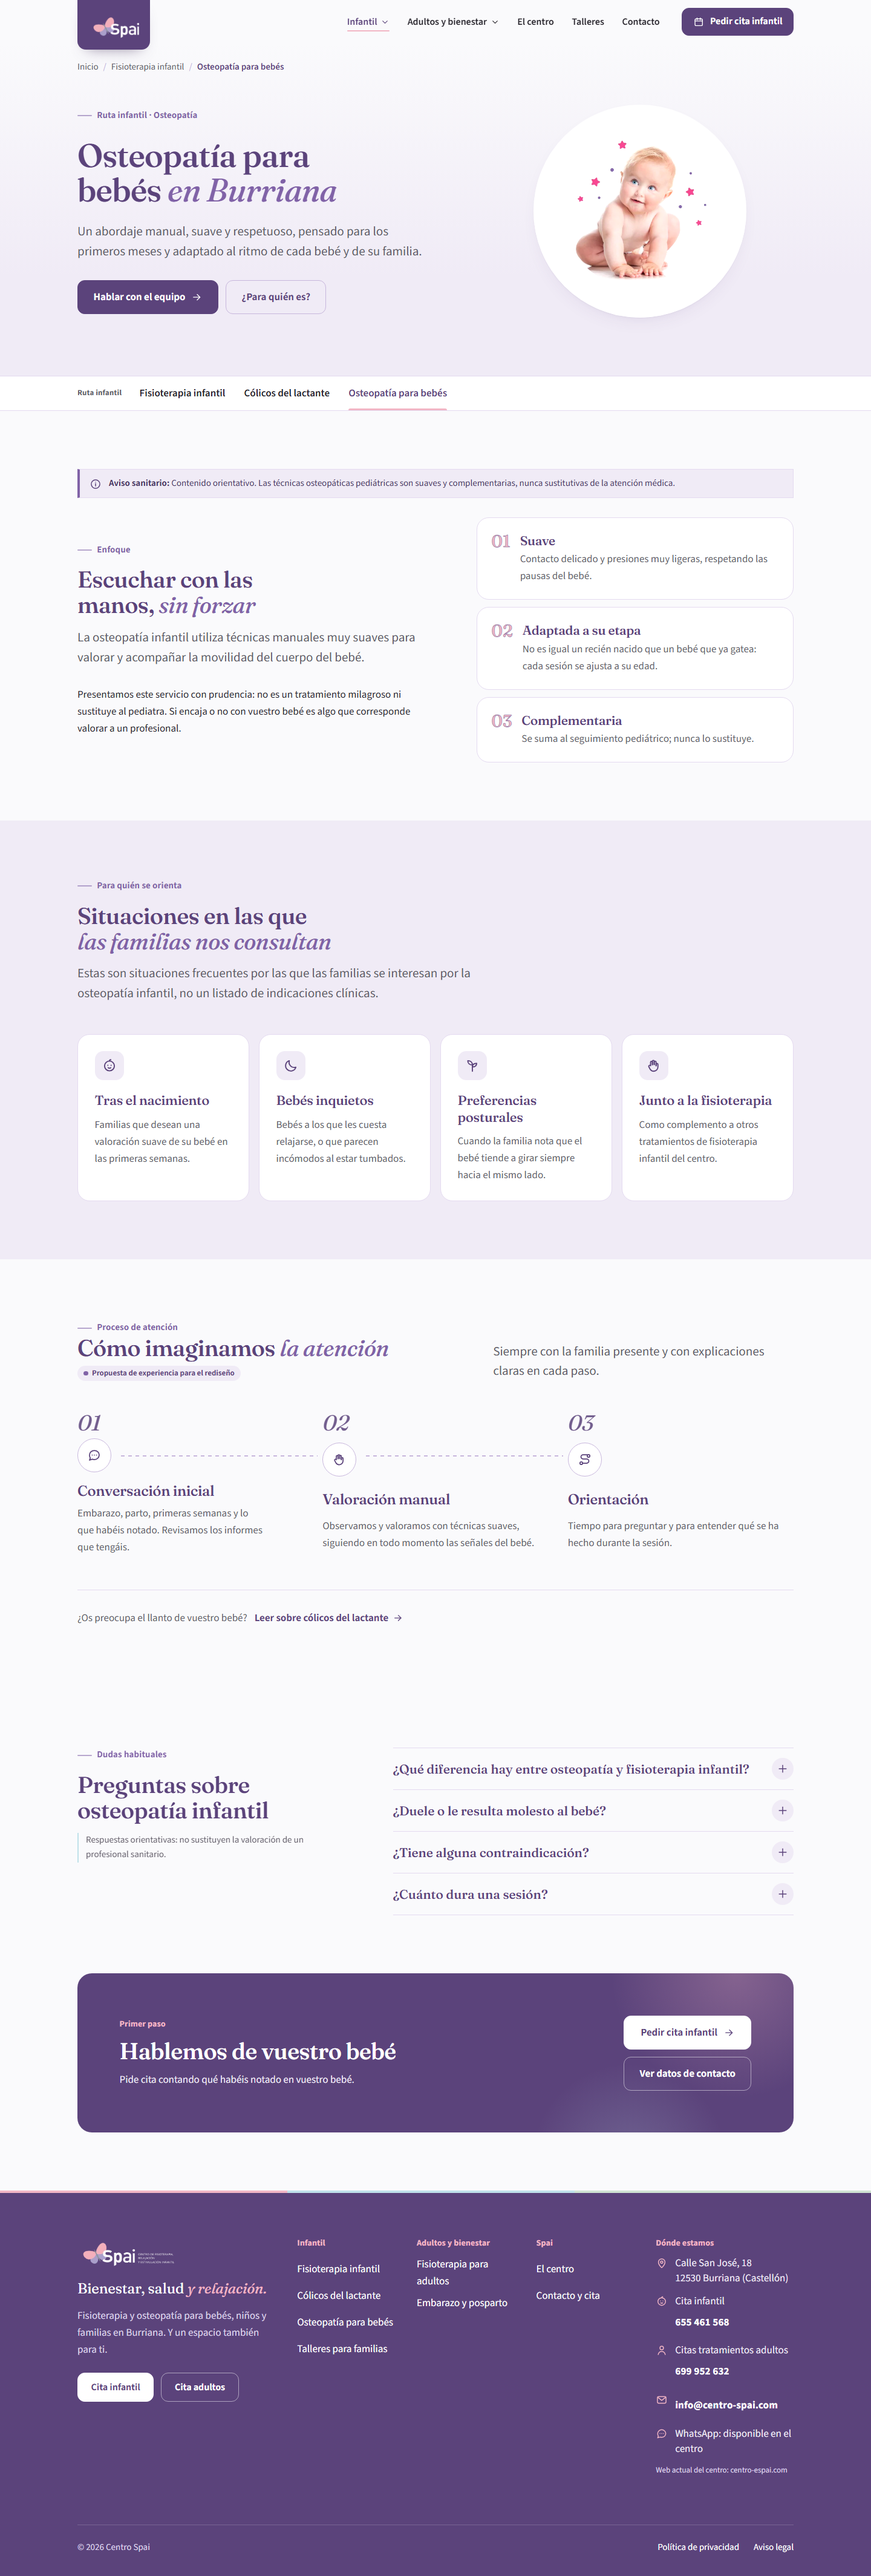
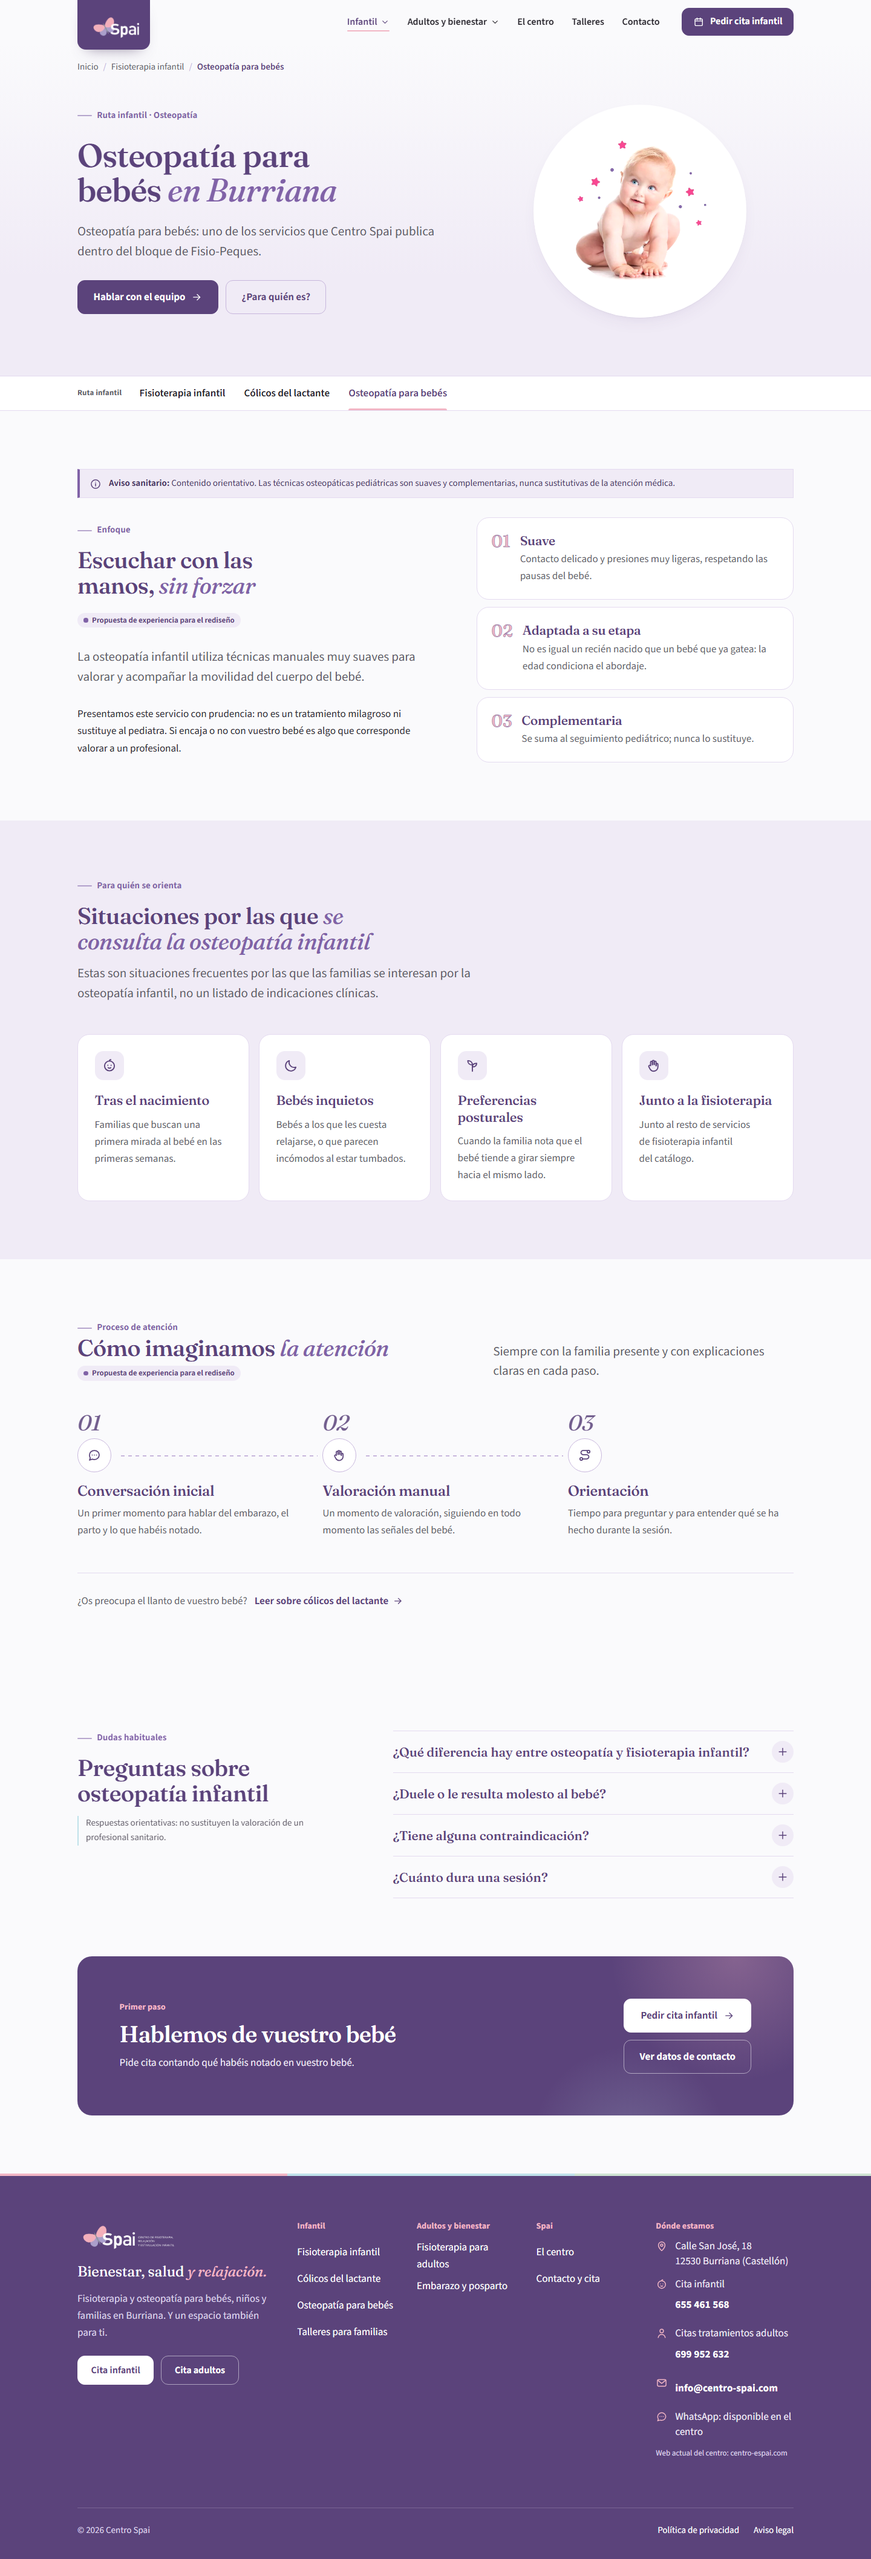
fix(copy): cierra afirmaciones no verificadas centro spai
Las rutas clinicas dejan de presentar como hechos actuales que Centro
Spai explique o acompane personalmente, realice valoraciones, aplique
tecnicas suaves o manuales adaptadas, ayude a recuperarse, trate al bebe
o determine que enfoque necesita cada persona. Cada frase se resolvio
reescribiendola como contenido publicado por el centro, reescribiendola
como propuesta dentro de un bloque etiquetado, o eliminandola.

- Colicos: hero sin promesa de explicacion ni acompanamiento; "Como os
  acompana el centro" pasa a "Como lo plantea esta propuesta";
  "Valoracion suave del bebe" pasa a "Observacion del bebe"; las FAQ
  devuelven la valoracion al profesional sanitario.
- Osteopatia: hero como servicio publicado, etiqueta de propuesta en el
  bloque de enfoque, "las familias nos consultan" fuera y la FAQ deja de
  prometer que se explique que enfoque encaja.
- Infantil: "Tratamos al bebe, acompanamos a la familia" pasa a "La
  infancia, el area principal del centro"; tarjetas por etapa como
  categorias; equipo atribuido a lo que publica la web del centro.
- Embarazo y posparto: fuera "te ayudamos a cuidar tu cuerpo" y
  "recuperarte a tu ritmo"; bloques como "Servicios para el embarazo" y
  "Servicios para el posparto".
- Inicio: tarjetas como categorias; fuera "Si ya venis con vuestros
  hijos" y "Sin compromiso".
- Adultos: eliminada "Cada una la presta un profesional con su propia
  titulacion"; se mantienen inventario historico y aviso sanitario.
[…]

diff --git a/ESTADO.md b/ESTADO.md
@@ -73,6 +73,19 @@ Regla aplicada: **todo lo que no esté sustentado por la web del centro se prese
 - **Catálogo de adultos**: «Radiofrecuencia corporal y facial» pasa a «Radiofrecuencia», por no constar ese detalle en la documentación del proyecto.
 - **Presentación**: la interfaz se ve terminada. Los pendientes viven en `GAPS.md`, `ESTADO.md` y el inventario, no repetidos por toda la web.
 
+## Cierre de afirmaciones no verificadas (tercera pasada)
+
+Criterio: en las rutas clínicas no queda ninguna frase que presente como hecho actual que Centro Spai explique o acompañe personalmente, realice valoraciones, aplique técnicas suaves o manuales adaptadas, ayude a recuperarse, trate al bebé o determine qué enfoque necesita cada persona. Cada una se resolvió por una de estas tres vías: reescritura como contenido publicado por el centro, reescritura como propuesta dentro de un bloque etiquetado, o eliminación.
+
+- **Cólicos**: el hero deja de prometer explicación y acompañamiento; «Cómo os acompaña el centro» pasa a «Cómo lo plantea esta propuesta»; «Valoración suave del bebé» pasa a «Observación del bebé»; las FAQ devuelven la valoración del caso al profesional sanitario.
+- **Osteopatía**: hero reescrito como servicio publicado; el bloque de enfoque lleva ya la etiqueta de propuesta; «las familias nos consultan» pasa a «se consulta la osteopatía infantil»; la FAQ deja de prometer que en la valoración se explique qué enfoque encaja.
+- **Infantil**: «Tratamos al bebé, acompañamos a la familia» pasa a «La infancia, el área principal del centro»; las tarjetas por etapa describen categorías del catálogo; el equipo se atribuye a lo que la web del centro publica, sin perfiles.
+- **Embarazo y posparto**: fuera «te ayudamos a cuidar tu cuerpo» y «recuperarte a tu ritmo»; los dos bloques pasan a «Servicios para el embarazo» y «Servicios para el posparto»; el enfoque lleva etiqueta de propuesta.
+- **Inicio**: tarjetas de necesidad convertidas en categorías, fuera «Si ya venís con vuestros hijos…» y «Sin compromiso».
+- **Adultos**: eliminada «Cada una la presta un profesional con su propia titulación»; el hero enumera las áreas de la ruta en lugar de prometer alivio. Se mantienen el inventario histórico y su aviso sanitario.
+- **Contacto y formulario**: la interfaz solo afirma lo verificable, «Formulario demostrativo: no envía ni almacena datos». Ningún texto dice que el centro responderá, gestionará citas ni tratará datos. Teléfonos, email, dirección y WhatsApp siguen visibles.
+- **Legal**: ambas páginas pasan a una presentación neutra, sin placeholders ni obligaciones, responsables, plazos o consentimientos inventados. Explican qué deberá incorporarse antes de una publicación real y mantienen el aviso sanitario general.
+
 ## Qué textos clínicos u operativos se suavizaron en la primera pasada
 
 - «Manos expertas» y «ritmo suave» en el hero infantil → descripción sin atribuir una práctica concreta.
@@ -93,8 +106,8 @@ Dominio y grafía definitivos, operatividad de los teléfonos y número de Whats
 ## Resultado de build y verificaciones
 
 - `npm run build` → 12 rutas estáticas generadas sin errores ni avisos.
-- `node scripts/verify-build.mjs` → **0 errores**. Comprueba 12 páginas, 1 H1 por página, cero `href="#"`, `noindex, follow`, cero referencias a Google Fonts, fuentes en disco, rutas de imágenes y WebP, anclas requeridas (incluidas `#herencia`, `#inventario` y `#otros-talleres`), presencia de los datos de contacto en todas las páginas, enlaces `tel:`/`mailto:`, ausencia de enlaces a tiendas sin verificar y una **lista de 27 frases prohibidas** que cubre las contradicciones con la web del centro, las afirmaciones de práctica o resultado y el andamiaje de proyecto («pendiente de validar», «Por validar», «confirmará el centro», «mockup», «maqueta»…).
-- `node scripts/qa-browser-tests.mjs` → **0 errores**. Suma a las pruebas previas: enlaces de contacto, formato online y CTA del Taller Moquitos, dos apps con recurso gráfico propio, catálogos de infantil y adultos, que las cinco rutas de servicio marquen su recorrido con «Propuesta de experiencia para el rediseño», y que ningún `<source>` genere caja en el layout.
+- `node scripts/verify-build.mjs` → **0 errores**. Comprueba 12 páginas, 1 H1 por página, cero `href="#"`, `noindex, follow`, cero referencias a Google Fonts, fuentes en disco, rutas de imágenes y WebP, anclas requeridas (incluidas `#herencia`, `#inventario` y `#otros-talleres`), presencia de los datos de contacto en todas las páginas, enlaces `tel:`/`mailto:`, ausencia de enlaces a tiendas sin verificar y una **lista de 47 frases prohibidas** que cubre las contradicciones con la web del centro, las afirmaciones de práctica, proceso o resultado («os explicamos», «te ayudamos», «valoramos al bebé», «técnicas manuales suaves», «a tu ritmo», «Sin compromiso»…) y el andamiaje de proyecto («pendiente de validar», «Por validar», «confirmará el centro», «mockup», «maqueta»). Comprueba además que las páginas legales no conserven marcadores de plantilla.
+- `node scripts/qa-browser-tests.mjs` → **0 errores**. Suma a las pruebas previas: enlaces de contacto, formato online y CTA del Taller Moquitos, dos apps con recurso gráfico propio, catálogos de infantil y adultos, que las cinco rutas de servicio marquen su recorrido con «Propuesta de experiencia para el rediseño», que el formulario se anuncie como demostrativo y sin almacenamiento, que las páginas legales estén libres de marcadores y adviertan de lo que falta, y que ningún `<source>` genere caja en el layout.
 - QA visual con Playwright en 390 y 1440: sin desbordamiento horizontal, sin errores de consola y sin respuestas 4xx.
 
 ## Últimos cambios
@@ -102,6 +115,7 @@ Dominio y grafía definitivos, operatividad de los teléfonos y número de Whats
 1. Corrección de fidelidad de herencia: recuperación de contacto, taller, apps y catálogos infantil y adulto.
 2. Dos correcciones técnicas de calado: `BUG-17` (el `<source>` de `<Picture>` se convertía en item de grid/flex) y `BUG-18` (las reglas CSS con ámbito `.x img` dejaron de aplicarse tras migrar a `<Picture>`).
 3. Ajuste de fidelidad de contenido (`BUG-19`): reescritura de los reclamos no sustentados y retirada del andamiaje de validación de la interfaz.
+4. Cierre de afirmaciones no verificadas (`BUG-20`): rutas clínicas sin afirmaciones de práctica, formulario y páginas legales reducidos a lo verificable.
 
 Ver `BUGS.md` y `git log`.
 

diff --git a/GAPS.md b/GAPS.md
@@ -4,6 +4,8 @@ Este documento recoge el estado de los puntos de información, decisiones de neg
 
 > **Criterio aplicado desde el 22/09/2026 (corrección de fidelidad de herencia).** Lo que la web del centro publica se hereda y se muestra; la falta de confirmación reciente deja de ser motivo para ocultarlo. Los gaps de contacto pasan de «dato oculto» a «dato mostrado, operatividad por confirmar». Solo se mantiene fuera lo que la fuente no publica (horario, número de WhatsApp) o lo que no puede afirmarse sin validación clínica. Trazabilidad en `design/inventario-herencia-sitio-original.md`.
 >
+> **Cierre del 22/09/2026 (afirmaciones no verificadas).** Las rutas clínicas ya no presentan como hecho actual que el centro explique, acompañe, valore, trate o elija enfoque; el formulario solo afirma que es demostrativo y no almacena datos; y las páginas legales son una presentación neutra, sin placeholders ni obligaciones inventadas. Lo que el cliente aporte para cerrar **GAP-06**, **GAP-08** y **GAP-13** es lo que permitirá convertir esos bloques en afirmaciones reales.
+>
 > **Ajuste del 22/09/2026 (fidelidad de contenido).** Los pendientes dejan de mostrarse en la interfaz: nada de sellos «Por validar», «pendiente de confirmar» ni referencias a que esto sea una maqueta por validar. En pantalla solo quedan los avisos sanitarios imprescindibles, la aclaración de que formularios y botones son demostrativos y la etiqueta discreta «Propuesta de experiencia para el rediseño» en los recorridos de atención. **Este documento es ahora el único registro de lo que falta**, junto a `ESTADO.md` y el inventario.
 
 ---
@@ -24,7 +26,7 @@ Este documento recoge el estado de los puntos de información, decisiones de neg
 | **GAP-10** | **Vigencia de las técnicas de adultos y responsable de cada una** | `/fisioterapia-adultos-burriana/#inventario`, `/embarazo-posparto/` | Confirmar cuáles del inventario heredado siguen activas (punción seca, kinesiotaping, electroterapia, Indiba y radiofrecuencia, MTC y acupuntura, hipopresivos, suelo pélvico, fisio-estética…) y quién las presta, con titulación. | 🟡 **Inventario heredado visible** *(se muestra el catálogo completo de la web anterior con aviso de que su vigencia la confirma el centro y no es un compromiso de tratamiento)* |
 | **GAP-11** | **Taller Moquitos: calendario, aforo, precio e inscripción real** | `/talleres/#taller-moquitos` | Fechas de próximas convocatorias, aforo, precio por familia y sistema de inscripción al que debe apuntar la CTA. | 🟡 **Taller y formato online heredados** *(se muestra «Taller Moquitos · Online» y la CTA «Apúntate al taller», que abre el formulario demostrativo; ya no se niega la inscripción online)* |
 | **GAP-12** | **Fichas de las apps en las tiendas** | `/talleres/#apps` | Enlaces definitivos de *No más Cólicos* y *Anticólicos* en App Store y Google Play, para activar los botones «Descargar app». | 🟡 **Apps heredadas y presentadas** *(ambas con icono propio y CTA visual; no se enlaza a ninguna tienda sin verificar ni se afirma que no estén disponibles)* |
-| **GAP-13** | **Datos fiscales para Aviso Legal y RGPD** | `/aviso-legal/`, `/politica-de-privacidad/` | Razón social o nombre del autónomo titular, CIF/NIF, domicilio social, datos de inscripción registral sanitaria y designación de responsable/DPD. | ❌ Pendiente de cliente *(plantillas con placeholders y directiva noindex)* |
+| **GAP-13** | **Datos fiscales y textos legales definitivos** | `/aviso-legal/`, `/politica-de-privacidad/` | Razón social o nombre del autónomo titular, CIF/NIF, domicilio social, datos de inscripción registral sanitaria y designación de responsable/DPD, más la redacción legal completa. | ❌ Pendiente de cliente *(ambas páginas son ahora una presentación neutra: sin placeholders ni obligaciones inventadas, y con directiva noindex)* |
 | **GAP-14** | **Sesión fotográfica real de instalaciones** | En todo el sitio | Fotografías actualizadas de la fachada a pie de calle, recepción, sala de fisioterapia pediátrica, cabinas de adultos y camillas. | ❌ Pendiente de cliente *(utilizando imágenes históricas aprobadas)* |
 | **GAP-18** | **Validación del recorrido de atención propuesto** | `.proposal-tag` en infantil, cólicos, osteopatía, adultos y embarazo | Confirmar (o corregir) cómo es realmente la primera visita, si hay valoración previa, cómo se explica el plan y qué se entrega a la familia. Mientras tanto se presenta como propuesta de experiencia, no como práctica del centro. | ❌ Pendiente de cliente *(mitigado con la etiqueta discreta «Propuesta de experiencia para el rediseño»)* |
 | **GAP-15** | **Dependencia de compilación `sharp`** | Build pipeline (`package.json`) | N/A — Resuelto en el mockup. | ✅ **CERRADO EN MOCKUP** *(declarado `sharp@^0.35.4` en dependencies e instalado)* |

diff --git a/BUGS.md b/BUGS.md
@@ -208,3 +208,18 @@ Este documento detalla los problemas de usabilidad, accesibilidad, coherencia de
   * Los marcadores de las páginas legales pasan de `[pendiente de validar]` a huecos neutros (`[Razón social]`, `[NIF]`, `[Domicilio social]`…).
   * «Radiofrecuencia corporal y facial» pasa a «Radiofrecuencia» por falta de evidencia de ese detalle en la documentación del proyecto.
   * `verify-build.mjs` amplía su lista a **27 frases prohibidas** y `qa-browser-tests.mjs` comprueba que las cinco rutas de servicio marquen su recorrido como propuesta.
+
+---
+
+### BUG-20: Afirmaciones de práctica clínica y operativa sin respaldo en la fuente
+* **Severidad**: Alta (deontológica y de fidelidad)
+* **Componentes / Páginas**: `index.astro`, `colicos-del-lactante-burriana.astro`, `osteopatia-bebes-burriana.astro`, `fisioterapia-infantil-burriana.astro`, `embarazo-posparto.astro`, `fisioterapia-adultos-burriana.astro`, `contacto.astro`, `DemoForm.astro`, `Timeline.astro`, `404.astro` y las dos páginas legales
+* **Problema**: pese a las pasadas anteriores, las rutas clínicas seguían afirmando como hechos actuales que Centro Spai explica o acompaña personalmente («Os explicamos qué suele ocurrir, cómo podemos acompañaros»), realiza valoraciones («Valoración suave del bebé», «Observamos y valoramos con técnicas suaves»), aplica técnicas suaves o manuales adaptadas, ayuda a recuperarse («Te ayudamos a cuidar tu cuerpo… y a recuperarte a tu ritmo»), trata al bebé («Tratamos al bebé, acompañamos a la familia») o determina el enfoque de cada persona («En la valoración os explicamos qué enfoque encaja mejor»). En adultos se atribuía titulación al prestador de cada técnica. El formulario prometía uso y respuesta de datos («Solo pedimos lo necesario para poder responderte», «Lo usaremos solo para responder a tu solicitud», «en la web real este formulario conectará con el equipo»). Y las páginas legales se presentaban como política válida pese a contener placeholders y a que el formulario no procesa datos.
+* **Impacto**: el mockup atribuía al centro un protocolo clínico, una capacidad operativa y un tratamiento de datos que nadie ha verificado, con el riesgo deontológico y legal que eso supone en un sitio sanitario.
+* **Corrección**:
+  * Cada afirmación se resolvió por una de las tres vías admitidas: reescritura como contenido publicado por el centro, reescritura como propuesta dentro de un bloque con la etiqueta «Propuesta de experiencia para el rediseño», o eliminación. Se añadió esa etiqueta al enfoque de osteopatía y al de embarazo/posparto, que aún no la tenían.
+  * En adultos se eliminó «Cada una la presta un profesional con su propia titulación», manteniendo el inventario histórico y su aviso sanitario.
+  * El formulario y su página solo afirman lo verificable: **«Formulario demostrativo: no envía ni almacena datos»**. Los textos de campo pasan a «Campo de ejemplo», el consentimiento a «acepto continuar con esta solicitud demostrativa» y el mensaje final a «Nada de lo que has escrito ha salido de esta página». Teléfonos, email, dirección y WhatsApp siguen visibles como datos del centro.
+  * Las dos páginas legales pasan a una presentación neutra: sin placeholders (`[NIF]`, `[Razón social]`, `[Domicilio social]`), sin responsables, plazos, consentimientos ni condiciones inventadas. Explican qué deberá incorporarse antes de una publicación real, informan de que la web no recoge datos y conservan el aviso sanitario general. Las rutas y los enlaces del pie no cambian.
+  * Copy editorial menor: fuera «Si ya venís con vuestros hijos…», «Sin compromiso», «a tu ritmo» y la promesa del 404 («Te ayudamos a encontrar lo que buscas»).
+  * `verify-build.mjs` pasa a **47 frases prohibidas** y comprueba que las páginas legales no conserven marcadores; `qa-browser-tests.mjs` añade el aviso del formulario y la neutralidad de las páginas legales.
